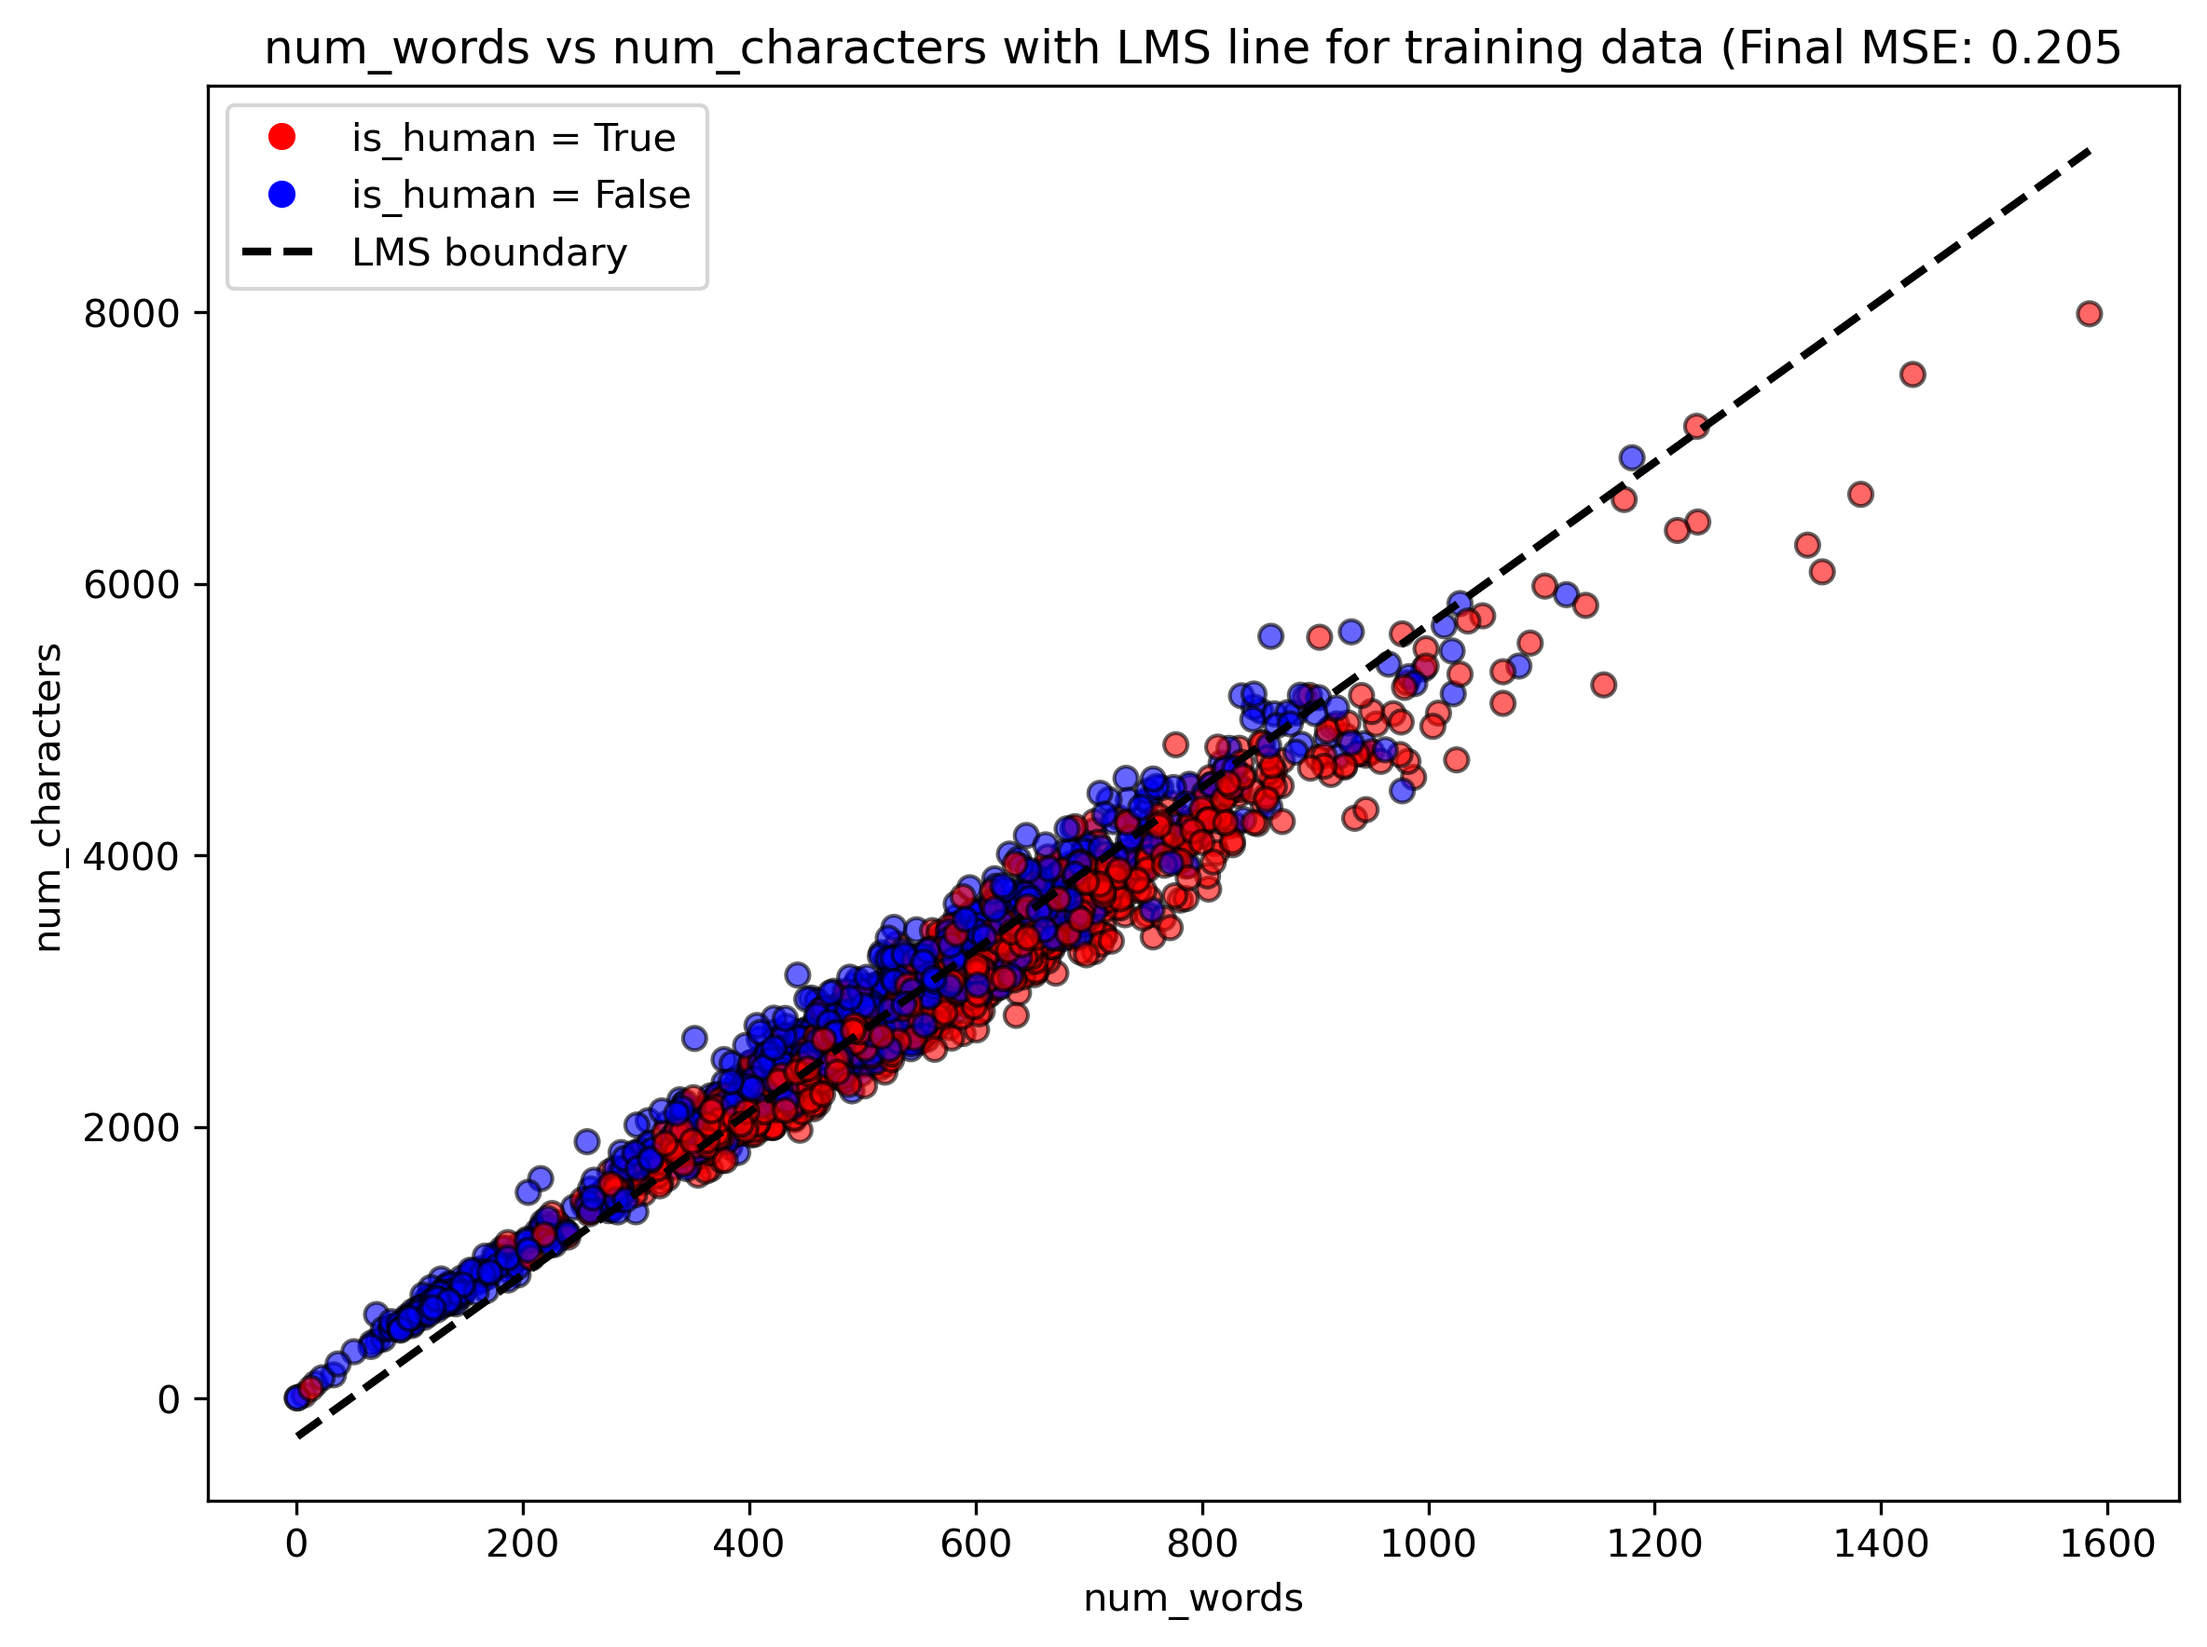
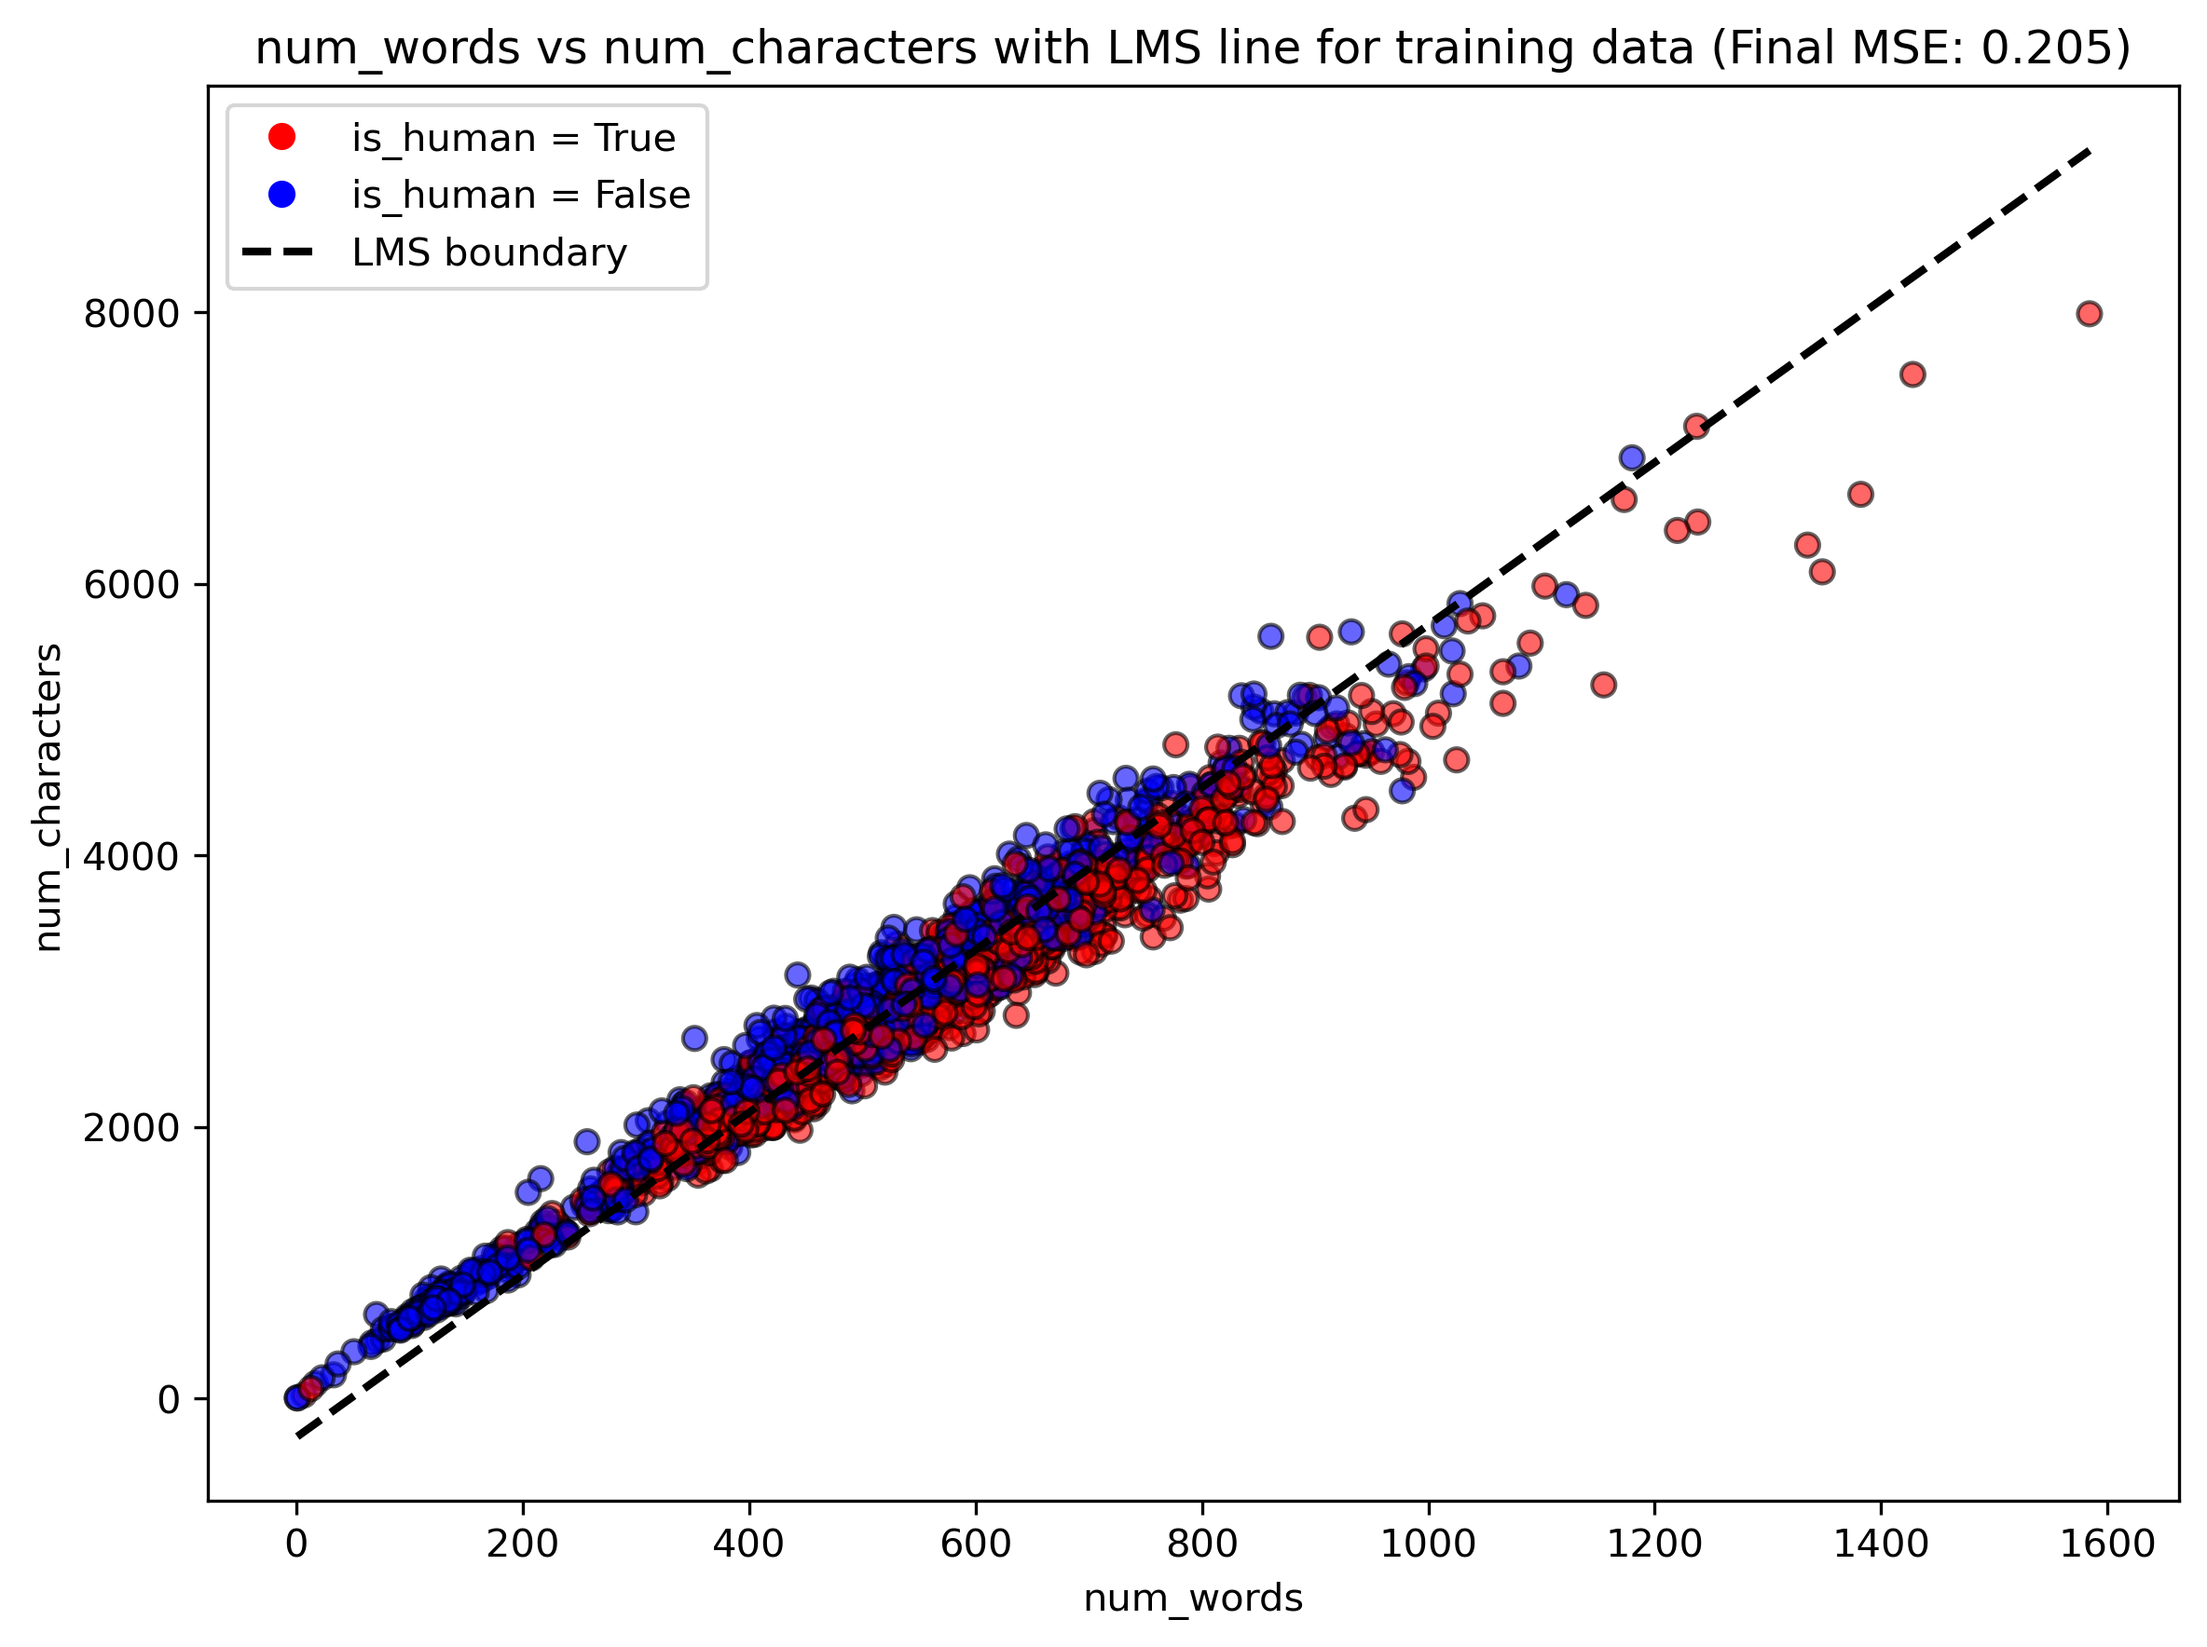
H2-solved task 4

Changed region(s): [[0.125, 0.0, 0.9688, 0.0622]]

diff --git a/H2/LinearRegression.py b/H2/LinearRegression.py
@@ -14,6 +14,20 @@ class ClassLMS():
         self.y_train = None
         self.w = None
         np.random.seed(0)
+    
+    def _apply_defaults(self, lr=None, epochs=None, X_train=None, X_test=None, y_train=None, f1=None, f2=None, W0=None, W1=None, W2=None):
+        return {
+            'lr': lr if lr is not None else self.lr,
+            'epochs': epochs if epochs is not None else self.epochs,
+            'X_train': X_train if X_train is not None else self.X_train,
+            'X_test': X_test if X_test is not None else self.X_test,
+            'y_train': y_train if y_train is not None else self.y_train,
+            'f1': f1 if f1 is not None else self.f1,
+            'f2': f2 if f2 is not None else self.f2,
+            'W0': W0 if W0 is not None else getattr(self, 'W0', None),
+            'W1': W1 if W1 is not None else getattr(self, 'W1', None),
+            'W2': W2 if W2 is not None else getattr(self, 'W2', None)
+        }
 
     def load_features(self):
         print('-' * 30)
@@ -40,18 +54,8 @@ class ClassLMS():
     def train_model(self, lr=None, epochs=None, X_train=None, y_train=None, f1=None, f2=None):
         print('-' * 30)
         print('Starting to train the model')
-        if lr is None:
-            lr = self.lr
-        if epochs is None:
-            epochs = self.epochs
-        if X_train is None:
-            X_train = self.X_train
-        if y_train is None:
-            y_train = self.y_train
-        if f1 is None:
-            f1 = self.f1
-        if f2 is None:
-            f2 = self.f2
+        d = self._apply_defaults(lr=lr, epochs=epochs, X_train=X_train, y_train=y_train, f1=f1, f2=f2)
+        lr, epochs, X_train, y_train, f1, f2 = d['lr'], d['epochs'], d['X_train'], d['y_train'], d['f1'], d['f2']
 
         # Prepare data
         X2 = X_train[[f1, f2]].astype(float).copy()
@@ -100,7 +104,7 @@ class ClassLMS():
         self.MSE_history = MSE_history
         self.RSS_history = RSS_history
 
-        # Convert weights to original feature space for plotting the line
+        # Convert weights to original feature space
         W0 = w[0] - w[1]*mu[f1]/sigma[f1] - w[2]*mu[f2]/sigma[f2]
         W1 = w[1] / sigma[f1]
         W2 = w[2] / sigma[f2]
@@ -123,20 +127,8 @@ class ClassLMS():
         print('-' * 30)
         print('Starting visualization')
         # Use defaults if not provided
-        if X_train is None:
-            X_train = self.X_train
-        if y_train is None:
-            y_train = self.y_train
-        if f1 is None:
-            f1 = self.f1
-        if f2 is None:
-            f2 = self.f2
-        if W0 is None:
-            W0 = self.W0
-        if W1 is None:
-            W1 = self.W1
-        if W2 is None:
-            W2 = self.W2
+        d = self._apply_defaults(X_train=X_train, y_train=y_train, f1=f1, f2=f2, W0=W0, W1=W1, W2=W2)
+        X_train, y_train, f1, f2, W0, W1, W2 = d['X_train'], d['y_train'], d['f1'], d['f2'], d['W0'], d['W1'], d['W2']
             
         # Scatter plot with decision line y_hat = 0.5  =>  W0 + W1*x + W2*y = 0.5
         colors = ['red' if v == 1 else 'blue' for v in y_train['target']]
@@ -152,7 +144,7 @@ class ClassLMS():
 
         plt.xlabel(f1)
         plt.ylabel(f2)
-        plt.title(f'{f1} vs {f2} with LMS line for training data (Final MSE: {self.MSE_history[-1]:.3f}')
+        plt.title(f'{f1} vs {f2} with LMS line for training data (Final MSE: {self.MSE_history[-1]:.3f})')
         from matplotlib.lines import Line2D
         legend_elements = [
             Line2D([0],[0], marker='o', color='w', label='is_human = True', markerfacecolor='red', markersize=8),
@@ -195,27 +187,12 @@ class ClassLMS():
         print('Error history plotted')
     
     def compute_rss(self, X_train=None, y_train=None, f1=None, f2=None, W0=None, W1=None, W2=None):
-        """
-        Compute RSS (Residual Sum of Squares) for requirement (c).
-        Calculates RSS in original feature space (not standardized).
-        """
+
         print('-' * 30)
         print('Computing RSS (Residual Sum of Squares)')
         # Use defaults if not provided
-        if X_train is None:
-            X_train = self.X_train
-        if y_train is None:
-            y_train = self.y_train
-        if f1 is None:
-            f1 = self.f1
-        if f2 is None:
-            f2 = self.f2
-        if W0 is None:
-            W0 = self.W0
-        if W1 is None:
-            W1 = self.W1
-        if W2 is None:
-            W2 = self.W2
+        d = self._apply_defaults(X_train=X_train, y_train=y_train, f1=f1, f2=f2, W0=W0, W1=W1, W2=W2)
+        X_train, y_train, f1, f2, W0, W1, W2 = d['X_train'], d['y_train'], d['f1'], d['f2'], d['W0'], d['W1'], d['W2']
         
         # Extract features (ORIGINAL space, not standardized)
         X_features = X_train[[f1, f2]].astype(float).values
@@ -242,18 +219,8 @@ class ClassLMS():
         print('-' * 30)
         print('Starting predictions on test set')
         # Use defaults if not provided
-        if X_test is None:
-            X_test = self.X_test
-        if f1 is None:
-            f1 = self.f1
-        if f2 is None:
-            f2 = self.f2
-        if W0 is None:
-            W0 = self.W0
-        if W1 is None:
-            W1 = self.W1
-        if W2 is None:
-            W2 = self.W2   
+        d = self._apply_defaults(X_test=X_test, f1=f1, f2=f2, W0=W0, W1=W1, W2=W2)
+        X_test, f1, f2, W0, W1, W2 = d['X_test'], d['f1'], d['f2'], d['W0'], d['W1'], d['W2']   
         # Extract features
         X_test_features = X_test[[f1, f2]].astype(float).values
         # Make predictions: y_hat = W0 + W1*x1 + W2*x2
